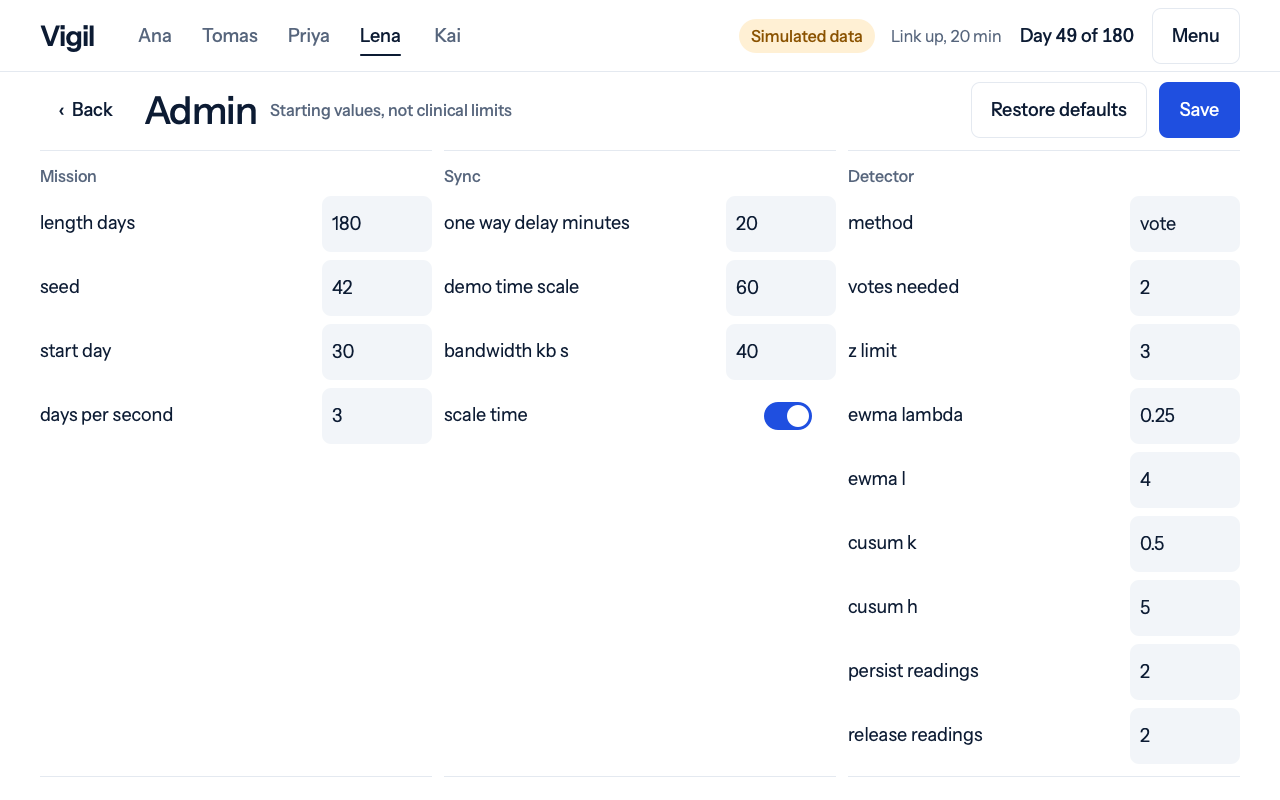
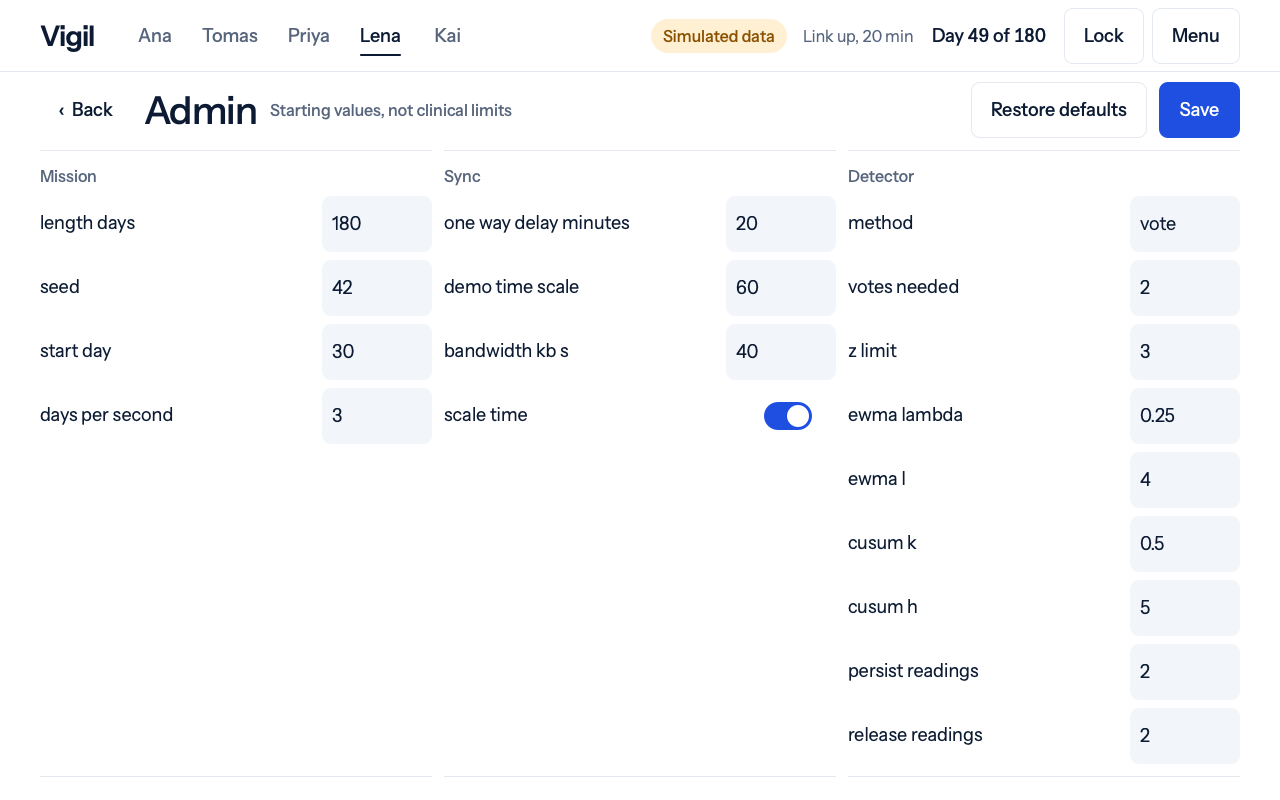
Test every screen of a live mission as each role, and refresh screenshots
Keeps Home prompts on the alert row so nothing below moves, unloads
screens before a session ends, and renders the new sign-in, lock,
setup, account, log and Mission Control screens.

Changed region(s): [[0.5, 0.0, 0.9062, 0.0938]]

diff --git a/frontend/qml/HomeScreen.qml b/frontend/qml/HomeScreen.qml
@@ -47,29 +47,21 @@ Item {
                 : "Every system is inside your own normal today."
         }
 
+        // The top alert's action, then what is due today and anyone who needs the Medical Officer. One row, so nothing below moves.
         RowLayout {
             Layout.topMargin: 12
             Layout.preferredHeight: Theme.touch
-            visible: !!home.topAlert
+            visible: !!home.topAlert || (home.notices.length > 0 && !vigil.demo.active)
             spacing: 12
-            VButton { kind: "primary"; text: "See what to do  ›"; onClicked: vigil.navigate("/alert/" + home.topAlert.id) }
-            LevelBadge { level: home.topAlert ? home.topAlert.level : 0 }
+            VButton { visible: !!home.topAlert; kind: "primary"; text: "See what to do  ›"; onClicked: vigil.navigate("/alert/" + home.topAlert.id) }
+            LevelBadge { visible: !!home.topAlert; level: home.topAlert ? home.topAlert.level : 0 }
             Text {
-                visible: home.d.alerts.length > 1
+                visible: !!home.topAlert && home.d.alerts.length > 1
                 text: "and " + (home.d.alerts.length - 1) + " more"
                 font.family: Theme.body; font.pixelSize: 16; color: Theme.ink2
             }
-        }
-
-        // What is due today, and anyone who needs the Medical Officer.
-        Flow {
-            Layout.topMargin: 14
-            Layout.fillWidth: true
-            Layout.maximumWidth: 760
-            visible: home.notices.length > 0 && !vigil.demo.active
-            spacing: 10
             Repeater {
-                model: home.notices
+                model: vigil.demo.active ? [] : home.notices.slice(0, home.topAlert ? 1 : 3)
                 VButton {
                     required property var modelData
                     text: modelData.title + "  ›"

diff --git a/backend/tests/test_live_ui.py b/backend/tests/test_live_ui.py
@@ -1,0 +1,123 @@
+"""The interface on a real mission, signed in as each role. No QML errors, no small targets, no simulated badge."""
+
+import sys
+from datetime import date, timedelta
+from pathlib import Path
+
+import pytest
+from PySide6.QtCore import QObject
+from PySide6.QtGui import QGuiApplication
+from PySide6.QtQuick import QQuickItem
+from PySide6.QtTest import QTest
+
+sys.path.insert(0, str(Path(__file__).resolve().parents[2] / "frontend"))
+
+from app import config  # noqa: E402
+from app.views import Vigil  # noqa: E402
+from main import create_engine, quick_window  # noqa: E402
+
+TARGETS = ("QQuickAbstractButton", "QQuickTextField", "QQuickSlider", "QQuickTextArea")
+CREW_ROUTES = ["/", "/log", "/checkin", "/sensors", "/radiation", "/crew", "/earth", "/profile", "/system/heart", "/about"]
+PEOPLE = {"ana": "4826", "priya": "7391", "lena": "5170"}
+
+
+@pytest.fixture(scope="module")
+def live(tmp_path_factory):
+    home = tmp_path_factory.mktemp("liveui")
+    with pytest.MonkeyPatch.context() as mp:
+        for name, sub in (("MISSION_DB_PATH", "mission.db"), ("OUTBOX_DIR", "outbox"), ("IMPORT_DIR", "import"),
+                          ("EXPORT_DIR", "exports"), ("BACKUP_DIR", "backups")):
+            mp.setattr(config, name, home / sub)
+        start = date.today() - timedelta(days=11)
+        today = [start]
+        vigil = Vigil(today=lambda: today[0])
+        vigil.setup_mission("Analog 1", start.isoformat(), 90, "Ana Reyes", "4826")
+        for name, role, pin in (("Priya Nair", "medical", "7391"), ("Lena Novak", "crew", "5170"), ("Kai Sato", "ground", "8402")):
+            vigil.request({"id": "ana", "role": "commander"}, "add_member", {"name": name, "role": role, "pin": pin})
+            vigil.accounts.set_pin(name.split()[0].lower(), pin, must_change=False)
+        for i in range(12):
+            today[0] = start + timedelta(days=i)
+            vigil.live.tick(0)
+            vigil.request({"id": "lena", "role": "crew"}, "log_readings", {"values": {"resting_hr": 60 + (8 if i > 8 else 0), "temp": 36.6}})
+        app = QGuiApplication.instance() or QGuiApplication([])
+        warnings: list[str] = []
+        engine, bridge = create_engine(app, vigil, lambda w: warnings.extend(x.toString() for x in w))
+        bridge.acknowledgeWelcome()
+        yield {"vigil": vigil, "bridge": bridge, "window": quick_window(engine.rootObjects()[0]), "warnings": warnings, "app": app}
+
+
+def items(item):
+    for child in item.childItems():
+        if child.isVisible():
+            yield child
+            yield from items(child)
+
+
+def check_screen(live, route):
+    live["warnings"].clear()
+    live["bridge"].navigate(route)
+    QTest.qWait(150)
+    root = live["window"].contentItem()
+    page = live["window"].findChild(QObject, "page")
+    assert page.property("progress") == 1.0 and page.property("item") is not None
+    small = [(i.metaObject().className(), round(i.width()), round(i.height())) for i in items(root)
+             if isinstance(i, QQuickItem) and any(i.inherits(t) for t in TARGETS) and (i.width() < 55.5 or i.height() < 55.5)]
+    assert small == []
+    assert not any(i.property("text") == "Simulated data" for i in items(root))
+    assert live["warnings"] == []
+
+
+@pytest.mark.parametrize("member", sorted(PEOPLE))
+@pytest.mark.parametrize("route", CREW_ROUTES)
+def test_every_crew_screen_for_every_role(live, member, route):
+    bridge = live["bridge"]
+    if bridge.session.get("id") != member:
+        bridge.signOut()
+        assert bridge.signIn(member, PEOPLE[member]) == ""
+    check_screen(live, route)
+
+
+@pytest.mark.parametrize("route", ["/accounts", "/audit", "/admin"])
+def test_commander_screens(live, route):
+    bridge = live["bridge"]
+    if bridge.session.get("id") != "ana":
+        bridge.signOut()
+        assert bridge.signIn("ana", PEOPLE["ana"]) == ""
+    check_screen(live, route)
+
+
+def test_log_screen_saves_and_flags_a_bad_value(live):
+    bridge = live["bridge"]
+    bridge.signOut()
+    bridge.signIn("lena", PEOPLE["lena"])
+    bridge.navigate("/log")
+    QTest.qWait(150)
+    screen = live["window"].findChild(QObject, "page").property("item")
+    screen.setProperty("values", {"spo2": "120"})
+    screen.metaObject().invokeMethod(screen, "save")
+    QTest.qWait(50)
+    errors = screen.property("errors")
+    assert "spo2" in (errors.toVariant() if hasattr(errors, "toVariant") else errors)
+    screen.setProperty("values", {"spo2": "97"})
+    screen.metaObject().invokeMethod(screen, "save")
+    QTest.qWait(50)
+    assert "saved" in screen.property("saved")
+
+
+def test_mission_control_window_needs_its_own_sign_in(live):
+    bridge = live["bridge"]
+    live["warnings"].clear()
+    bridge.openGround()
+    QTest.qWait(200)
+    station = bridge.ground_bridge
+    assert station.stage == "signin"
+    assert "on the vehicle" in station.signIn("lena", PEOPLE["lena"])  # crew cannot sign in at the ground station
+    assert station.signIn("kai", "8402") == ""
+    QTest.qWait(200)
+    assert live["warnings"] == []
+    assert "error" in station.ask("astronaut", '{"id": "lena"}')
+    station.signOut()
+
+
+def test_lena_cannot_sign_in_as_mission_control_on_the_vehicle(live):
+    assert "Mission Control" in live["bridge"].signIn("kai", "8402")

diff --git a/scripts/screenshots.py b/scripts/screenshots.py
@@ -12,7 +12,10 @@ os.environ.setdefault("QT_QUICK_BACKEND", "software")
 os.environ.setdefault("VIGIL_HOME", tempfile.mkdtemp())
 os.environ.setdefault("VIGIL_THRESHOLDS", str(ROOT / "config" / "thresholds.yaml"))
 
-from app.views import Vigil
+import random
+from datetime import date, timedelta
+
+from app.views import DEMO_PIN, Vigil
 from main import create_engine, quick_window
 from PySide6.QtGui import QGuiApplication
 from PySide6.QtTest import QTest
@@ -22,7 +25,38 @@ SHOTS = [
     ("checkin", "/checkin", 49, "eng"), ("radiation", "/radiation", 120, "eng"), ("crew", "/crew", 96, "eng"), ("ground", "/ground", 120, "eng"),
     ("earth", "/earth", 49, "eng"), ("sensors", "/sensors", 49, "eng"), ("timeline", "/timeline", 96, "eng"), ("explainer", "/explainer", 176, "eng"),
     ("delay", "/delay", 49, "eng"), ("results", "/results", 176, "eng"), ("about", "/about", 49, "eng"), ("admin", "/admin", 49, "eng"),
+    ("profile", "/profile", 49, "eng"), ("accounts", "/accounts", 49, "eng"), ("audit", "/audit", 49, "eng"),
 ]
+# A real mission, seen by each role: (file, member, PIN, route)
+LIVE_SHOTS = [
+    ("live-home", "lena", "5170", "/"), ("live-log", "lena", "5170", "/log"), ("live-sources", "lena", "5170", "/sensors"),
+    ("live-mo-home", "priya", "7391", "/"), ("live-accounts", "ana", "4826", "/accounts"), ("live-audit", "ana", "4826", "/audit"),
+]
+
+
+def build_live_mission(vigil: Vigil, today: list[date]) -> None:
+    """Fifteen days of entries, ending today. Lena's heart rate climbs in the last few days."""
+    start = date.today() - timedelta(days=14)
+    today[0] = start
+    vigil.setup_mission("Analog 1", start.isoformat(), 180, "Ana Reyes", "4826", 190)
+    boss = {"id": "ana", "role": "commander"}
+    for name, role, pin in (("Priya Nair", "medical", "7391"), ("Lena Novak", "crew", "5170"), ("Dr. Okafor", "ground", "8402")):
+        vigil.request(boss, "add_member", {"name": name, "role": role, "pin": pin})
+    for member, pin in (("priya", "7391"), ("lena", "5170"), ("okafor", "8402")):
+        vigil.accounts.set_pin(member, pin, must_change=False)
+    rng = random.Random(3)
+    for i in range(15):
+        today[0] = start + timedelta(days=i)
+        vigil.live.tick(0)
+        for who, rise in (("lena", 9 if i >= 11 else 0), ("priya", 0), ("ana", 0)):
+            me = {"id": who, "role": "crew"}
+            vigil.request(me, "log_readings", {"values": {
+                "resting_hr": round(60 + rng.gauss(0, 1.5) + rise, 1), "hrv": round(58 + rng.gauss(0, 4) - 2 * rise, 1),
+                "bp_sys": round(116 + rng.gauss(0, 3)), "temp": 36.7, "sleep_hours": round(7 + rng.gauss(0, 0.3), 1), "dose_rate": 80,
+            }})
+            if i < 14 or who != "lena":
+                vigil.request(me, "checkin", {"mood": 7, "sleep_quality": 7, "energy": 7, "stress": 3, "symptoms": 0})
+    vigil.request({"id": "lena", "role": "crew"}, "call_earth", {"note": "Heart rate feels high"})
 
 
 def main() -> None:
@@ -35,6 +69,10 @@ def main() -> None:
     engine, bridge = create_engine(app, vigil, lambda w: problems.extend(x.toString() for x in w))
     window = quick_window(engine.rootObjects()[0])
     bridge.acknowledgeWelcome()
+    bridge.signIn("presenter", DEMO_PIN)
+
+    def engine_ground(station):  # the Mission Control window is the newest top-level window
+        return [w for w in app.topLevelWindows() if w.title() == "Vigil Mission Control"][0]
     QTest.qWait(300)
     for name, route, day, who in SHOTS:
         if only and name not in only:
@@ -45,7 +83,40 @@ def main() -> None:
         bridge.navigate(route)
         QTest.qWait(450)
         window.grabWindow().save(str(target / f"{name}.png"))
-    print("\n".join(problems) or f"Rendered {len(only) or len(SHOTS)} screens to {target}")
+    def shoot(name: str, wait: int = 450) -> None:
+        if not only or name in only:
+            QTest.qWait(wait)
+            window.grabWindow().save(str(target / f"{name}.png"))
+
+    bridge.lock()
+    shoot("lock")
+    bridge.signOut()
+    shoot("welcome")
+    bridge.chooseDemo()
+    shoot("signin")
+    for stage in ("setup",):
+        bridge._set_stage(stage)
+        shoot(stage)
+
+    today = [date.today()]
+    vigil.today = lambda: today[0]
+    build_live_mission(vigil, today)
+    bridge.openMission("live")
+    shoot("live-signin")
+    for name, member, pin, route in LIVE_SHOTS:
+        bridge.signOut()
+        bridge.signIn(member, pin)
+        bridge.acknowledgeWelcome()
+        bridge.navigate(route)
+        shoot(name)
+    bridge.signOut()
+    bridge.openGround()
+    station = bridge.ground_bridge
+    station.signIn("okafor", "8402")
+    QTest.qWait(450)
+    if not only or "live-ground" in only:
+        quick_window(engine_ground(station)).grabWindow().save(str(target / "live-ground.png"))
+    print("\n".join(problems) or f"Rendered screens to {target}")
 
 
 if __name__ == "__main__":

diff --git a/frontend/bridge.py b/frontend/bridge.py
@@ -242,6 +242,7 @@ class Bridge(QObject):
         self._end_session()
 
     def _end_session(self) -> None:
+        self._set_stage(self._resting_stage())  # unload the screens first, so none asks for data with nobody signed in
         self._session = None
         self._locked = False
         self._clear_undo()
